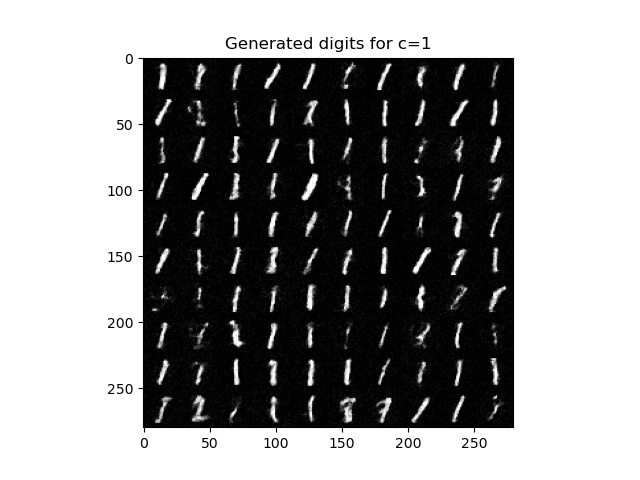
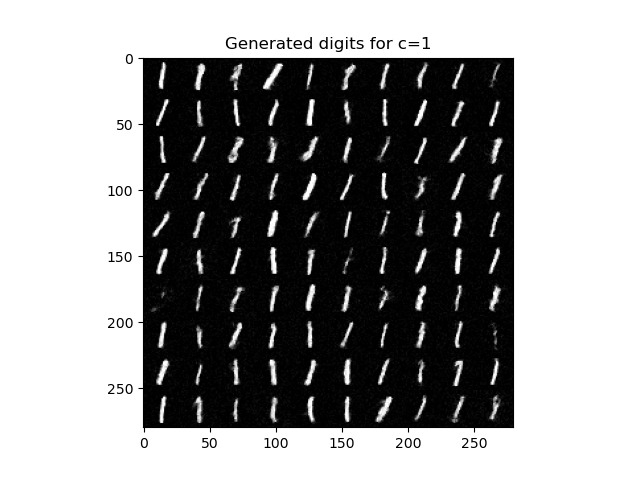
MNIST_minimal with only 128 hidden neurons

diff --git a/src/py/quantized_cINN/MNIST_minimal.py b/src/py/quantized_cINN/MNIST_minimal.py
@@ -61,7 +61,7 @@ class CONFIG(baseCONFIG):
 
     # Architecture
     n_blocks = 20
-    internal_width = 512
+    internal_width = 128
     clamping = 1.0
     fc_dropout = 0.0
 
